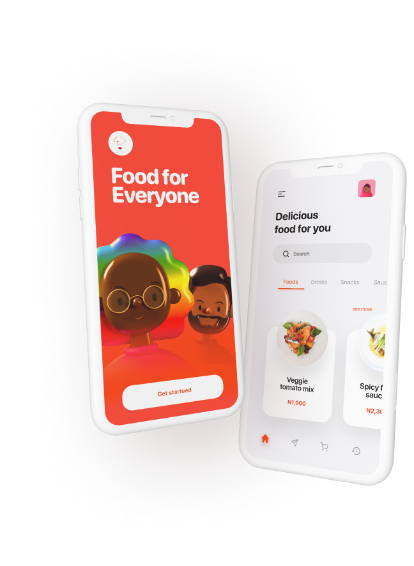
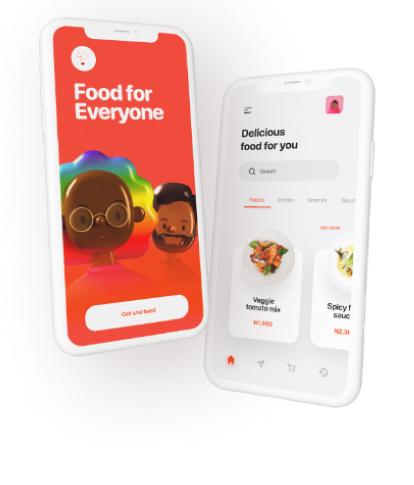
updated changes

diff --git a/css/main.css b/css/main.css
@@ -166,6 +166,11 @@ h3 {
     width:170px;
 }
 
+.style2:hover {
+    color: white;
+    border: 1px solid white;
+}
+
 .button-mobile {
     display:flex;
     flex-direction: column;
@@ -177,8 +182,9 @@ h3 {
 .image-container {
     display: flex;
     justify-content: center;
-    margin-top: -5rem;
-    margin-left: -3rem;
+    margin-top: 0;
+    /* margin-top: -6rem*/
+    /* margin-left: -3rem; */
     max-width: 100%;
   } 
 
@@ -363,7 +369,7 @@ nav .menubtn i {
 
 /*** rise image-container to overlap the banner ***/
 .image-container {
-    margin-top:-9rem;
+    margin-top:-6rem;
     position: relative;
     z-index:99;
 }

diff --git a/contact.html b/contact.html
@@ -18,6 +18,7 @@
     />
     <link rel="stylesheet" href="css/reset.css" />
     <link rel="stylesheet" href="css/main.css" />
+    <link rel="stylesheet" href="css/product.css" />
   </head>
 
   <body>
